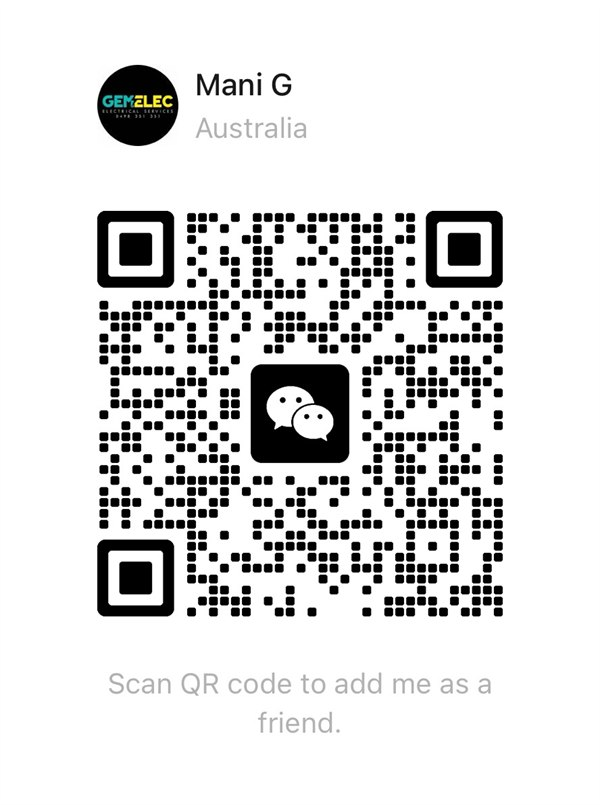
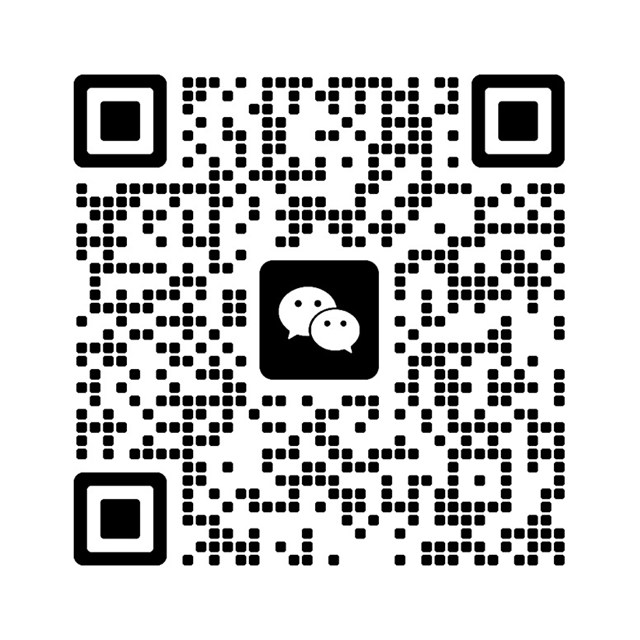
Keep Mani's name off the WeChat button
Mani asked for the business, not him, on the WeChat prompt. The dialog
and contact card now say "add Gemelec" / "add us", the alt text names
Gemelec Electrical Services, and the QR image is cropped to the code
itself (the screenshot's "Mani G" header and caption are gone), with a
white quiet zone kept around it so it still scans.

diff --git a/js/main.js b/js/main.js
@@ -54,9 +54,10 @@ document.addEventListener('click', (e) => {
 
 // === ADDED 2026-09-28: WeChat ===
 //
-// WeChat has no click-to-chat link like wa.me: a customer can only message Mani once
-// they've added him as a friend, and the dependable way in is his QR code. So anything
-// marked data-wechat opens a small dialog showing it. The element's href is the QR image
+// WeChat has no click-to-chat link like wa.me: a customer can only message the business
+// account once they've added it as a friend, and the dependable way in is its QR code. So
+// anything marked data-wechat opens a small dialog showing it. Customer-facing wording says
+// "Gemelec"/"us", never Mani's name (his request), and the image is cropped to the code. The element's href is the QR image
 // itself, which is the whole fallback: no JS, or no <dialog> support, and the tap just
 // opens the picture. The dialog also shows his WeChat ID with a copy button, for people
 // who'd rather search than scan. That only works because it's a custom ID (set
@@ -75,8 +76,8 @@ function buildWechatDialog () {
   dialog.innerHTML =
     '<button type="button" class="wechat-close" aria-label="Close">&times;</button>' +
     '<h2 id="wechat-dialog-title">Add us on WeChat</h2>' +
-    '<img src="' + WECHAT_QR + '" width="600" height="805" alt="WeChat QR code for Mani G, Gemelec Electrical Services">' +
-    '<p>Scan the code in WeChat to add Mani, then message us like any other chat.</p>' +
+    '<img src="' + WECHAT_QR + '" width="640" height="640" alt="WeChat QR code for Gemelec Electrical Services">' +
+    '<p>Scan the code in WeChat to add Gemelec, then message us like any other chat.</p>' +
     '<p class="wechat-id">Or search our WeChat ID: <strong>' + WECHAT_ID + '</strong> <button type="button" class="wechat-copy">Copy</button></p>' +
     '<p>On your phone? Press and hold the code to save it, then in WeChat tap <strong>+</strong>, then <strong>Scan</strong>, and choose the photo from your album.</p>'
   dialog.querySelector('.wechat-close').addEventListener('click', () => dialog.close())

diff --git a/contact.html b/contact.html
@@ -349,7 +349,7 @@
           <span class="label">WeChat</span>
           <h3>Add us on WeChat.</h3>
           <a href="/images/wechat-qr.jpg" class="big-link" data-wechat>Show our WeChat QR code</a>
-          <p>Scan the code or search our WeChat ID, GEMELEC, to add Mani, then send photos or questions the same way.</p>
+          <p>Scan the code or search our WeChat ID, GEMELEC, to add us, then send photos or questions the same way.</p>
         </div>
 
         <div class="info-card">
